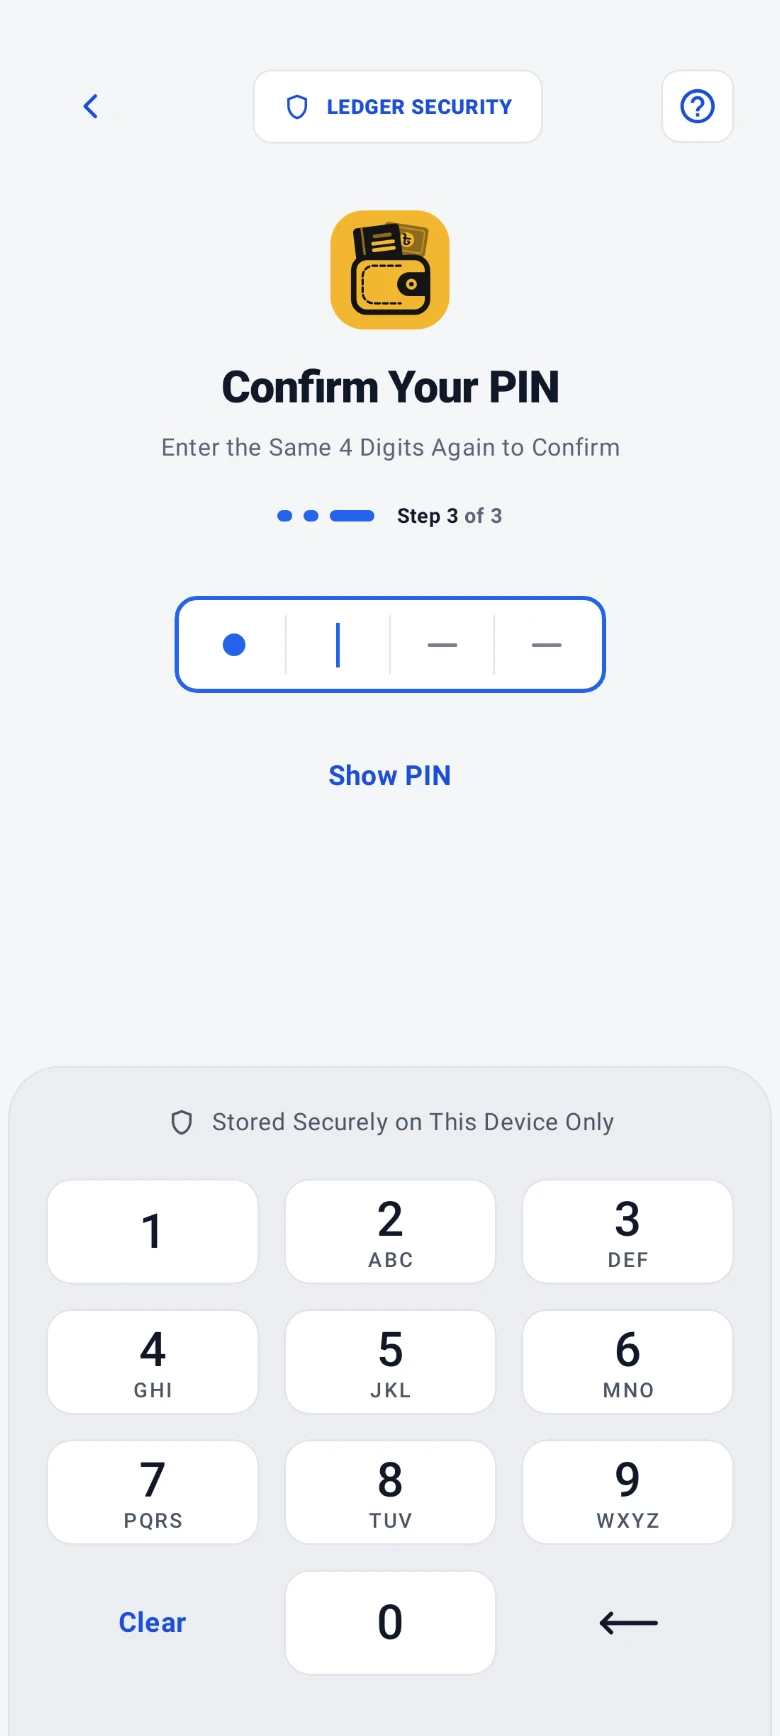
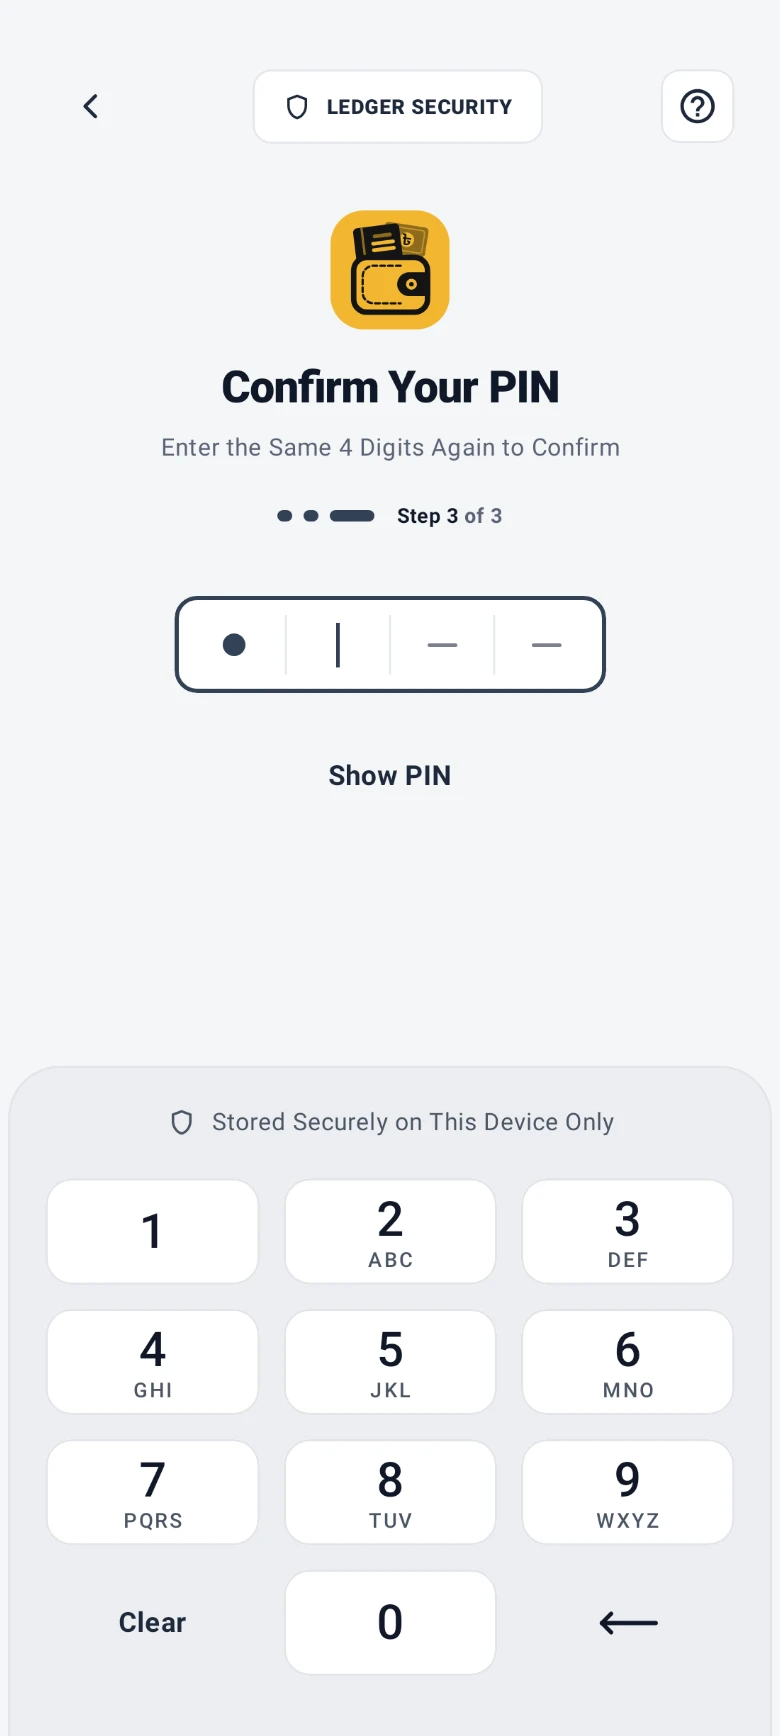
Website 2.26.2: the light pictures in Graphite
- All 22 light pictures, the first-launch steps among them, show
  Graphite (the app's Slate) rather than Rainbow, the owner's choice;
  rendered again from app 2.3.1. The dark ones and the share picture
  came out the same.
- gallery-changes.js names the gallery's light Sky look for the app's
  Slate (LightSlate, "light-slate"); towebp.js takes it for every
  light picture.
- 2.26.1's commit filled in the changelog.

diff --git a/_tools/gallery-changes.js b/_tools/gallery-changes.js
@@ -29,10 +29,12 @@ edit('GalleryTest.kt', [
   private val bnNotes: Boolean get() = webScene && sceneName.methodName.let { it.contains("Bangla") || it == "bangla" }
   private fun w(en: String, bn: String) = if (bnNotes) bn else en
 `],
-  // Website render only (site 2.25.29): a fifth look, Rainbow on the light theme, which the light
-  // pictures show -- the gallery draws only Yellow and Sky.
+  // Website render only (site 2.25.29): a fifth look, Rainbow on the light theme -- the gallery
+  // draws only Yellow and Sky. And since site 2.26.2 the light Sky look is named for what the app
+  // has called it since 2.3.0, Slate (Graphite on its pages; SKY in storage): LightSlate,
+  // "light-slate", which the light pictures show (owner, 2026-11-26).
   ['    LightSky(false, ThemeColorMode.SKY, "light-sky")\n',
-   '    LightSky(false, ThemeColorMode.SKY, "light-sky"),\n    LightRainbow(false, ThemeColorMode.RAINBOW, "light-rainbow")\n'],
+   '    LightSlate(false, ThemeColorMode.SKY, "light-slate"),\n    LightRainbow(false, ThemeColorMode.RAINBOW, "light-rainbow")\n'],
   ['repository.insertAccount(BankAccount(accountName = "CITY BANK A/C", accountType = "Savings", accountNumberSuffix = "9032", balance = 68250.0,',
    'val city = repository.insertAccountReturningId(BankAccount(accountName = "CITY BANK A/C", accountType = "Savings", accountNumberSuffix = "9032", balance = 0.0,'],
   ['val cash = repository.insertAccountReturningId(BankAccount(accountName = "Cash in Hand",',

diff --git a/_tools/towebp.js b/_tools/towebp.js
@@ -19,7 +19,10 @@ const fades = new Set(['txn', 'accounts', 'flow']);
 // The app's own screens show Rainbow on the light theme and Yellow after dark (site 2.25.29). The
 // first-launch steps the same since site 2.26.0: from app 2.3.0 a new install on the light theme
 // opens in Rainbow (2.25.29 kept them Yellow, as a new install then started).
-const look = t => t === 'light' ? 'light-rainbow' : 'dark-yellow';
+// Since site 2.26.2 every light picture, the first-launch steps among them, shows Graphite (the
+// app's Slate, stored as SKY; the gallery's light-sky look, renamed light-slate by
+// gallery-changes.js) -- the owner's choice (2026-11-26). Dark stays Yellow.
+const look = t => t === 'light' ? 'light-slate' : 'dark-yellow';
 const jobs = [];
 for (const [k, s] of Object.entries(scenes)) for (const t of ['light', 'dark']) for (const bn of [false, true])
   jobs.push([`app-${k}-${t}${bn ? '-bn' : ''}.webp`, `${s}${bn ? '-bn' : ''}-${look(t)}.png`, `${s}-${look(t)}.png`, fades.has(k)]);

diff --git a/features.html b/features.html
@@ -324,7 +324,7 @@
       <p data-s="footerNote">Built for keeping one household’s books. No trackers on this page.</p>
     </div>
     <p class="foot-links">
-      <span class="foot-ver" data-site-version>Website v2.26.1</span>
+      <span class="foot-ver" data-site-version>Website v2.26.2</span>
       <a href="privacy.html" data-s="navPrivacy">Privacy</a>
       <a href="install.html" data-s="navInstall">How to install</a>
     </p>

diff --git a/index.html b/index.html
@@ -355,7 +355,7 @@
       <p data-s="footerNote">Built for keeping one household’s books. No trackers on this page.</p>
     </div>
     <p class="foot-links">
-      <span class="foot-ver" data-site-version>Website v2.26.1</span>
+      <span class="foot-ver" data-site-version>Website v2.26.2</span>
       <a href="privacy.html" data-s="navPrivacy">Privacy</a>
       <a href="install.html" data-s="navInstall">How to install</a>
     </p>

diff --git a/install.html b/install.html
@@ -234,7 +234,7 @@
       <p data-s="footerNote">Built for keeping one household’s books. No trackers on this page.</p>
     </div>
     <p class="foot-links">
-      <span class="foot-ver" data-site-version>Website v2.26.1</span>
+      <span class="foot-ver" data-site-version>Website v2.26.2</span>
       <a href="privacy.html" data-s="navPrivacy">Privacy</a>
       <a href="install.html" data-s="navInstall">How to install</a>
     </p>

diff --git a/privacy.html b/privacy.html
@@ -219,7 +219,7 @@
       <p data-s="footerNote">Built for keeping one household’s books. No trackers on this page.</p>
     </div>
     <p class="foot-links">
-      <span class="foot-ver" data-site-version>Website v2.26.1</span>
+      <span class="foot-ver" data-site-version>Website v2.26.2</span>
       <a href="privacy.html" data-s="navPrivacy">Privacy</a>
       <a href="install.html" data-s="navInstall">How to install</a>
     </p>

diff --git a/assets/site.js b/assets/site.js
@@ -30,7 +30,7 @@ document.documentElement.classList.add('js');
  * number for a fix to what is there, the middle one for a new page, section or feature.
  * The app's version is a separate thing and comes from the releases API.
  */
-const SITE_VERSION = '2.26.1';
+const SITE_VERSION = '2.26.2';
 
 const LANGS = { en: 0, bn: 1 };
 // The language actually on the page. Where storage is blocked the saved choice cannot

diff --git a/CHANGELOG.md b/CHANGELOG.md
@@ -12,7 +12,8 @@ Counted back over the history when the number was introduced; repository houseke
 
 | Version | Date | Commit | What |
 |---|---|---|---|
-| 2.26.1 | 2026-11-26 | — | Follows app 2.3.1. Features: the light theme's dark accent by the name the app now gives it, graphite (it said "slate"); a backup password is at least 8 characters with a letter (it said "not only numbers", which let a date or a phone number with a slash or a dash through, as 2.3.0 did). Pictures rendered again from app 2.3.1: the light pairs of Home, Accounts, Investments, Analytics and Money Flow, their summary cards tinted violet under Rainbow and Home's two head cards on a soft shadow, and the dark pairs of Analytics and Money Flow with their rules stopped short of the card's edges; the other 30 and the share picture came out the same. And 2.26.0's commit in the changelog |
+| 2.26.2 | 2026-11-26 | — | The light pictures in Graphite rather than Rainbow, the owner's choice: all 22, the first-launch steps among them, rendered again from app 2.3.1. gallery-changes.js names the gallery's light Sky look for the app's Slate (LightSlate, "light-slate") and towebp.js takes it for every light picture; the dark ones and the share picture came out the same. And 2.26.1's commit in the changelog |
+| 2.26.1 | 2026-11-26 | a055048 | Follows app 2.3.1. Features: the light theme's dark accent by the name the app now gives it, graphite (it said "slate"); a backup password is at least 8 characters with a letter (it said "not only numbers", which let a date or a phone number with a slash or a dash through, as 2.3.0 did). Pictures rendered again from app 2.3.1: the light pairs of Home, Accounts, Investments, Analytics and Money Flow, their summary cards tinted violet under Rainbow and Home's two head cards on a soft shadow, and the dark pairs of Analytics and Money Flow with their rules stopped short of the card's edges; the other 30 and the share picture came out the same. And 2.26.0's commit in the changelog |
 | 2.26.0 | 2026-11-25 | 1e7bdd5 | Follows app 2.3.0. Features: the accents by theme — light mode in slate or rainbow, dark mode in gold or rainbow (it said "gold, sky blue or rainbow"); a backup password is at least 8 characters, not only numbers, and the app says when the daily backup's saved one is weaker; a DPS's instalments can be paid after maturity and earn nothing; a DPS closed early earns on each instalment from its own due day (any DPS, not only a monthly one) and can be closed with the bank's own figures, with a word when the profit is far above the reckoning; five wrong PINs lock for 30 seconds, each lockout after twice as long, up to four hours. Install: the app checks its own updates against the fingerprint and the signing key. The new-phone question: install the newest version there, since a backup from 2.3.0 does not open in an older one, and a password-protected one made on Android 8 or newer needs Android 8 or newer. Pictures rendered again from app 2.3.0: the light first-launch steps in Rainbow, as a new install on the light theme now opens (towebp.js takes them from -light-rainbow), Home's light pair with its calendar mark and Backups' with Rainbow's deeper green; the other 34 and the share picture came out the same. And 2.25.29's commit in the changelog |
 | 2.25.29 | 2026-11-24 | 3fa5fa4 | The app's pictures retaken from app 2.2.9, the light ones in its new Rainbow accent (the owner's choice) and the dark ones in Yellow, which Rainbow is after dark; the first-launch steps stay Yellow, as a new install starts. gallery-changes.js adds the Rainbow look the gallery lacks and drops its Money Flow 12dp change, which 2.2.7 released. Features names the third accent: "gold, sky blue or rainbow" / "সোনালি, আকাশি বা রংধনু". And 2.25.28's commit in the changelog |
 | 2.25.28 | 2026-11-20 | 6d786c8 | Corners on a scale, the owner's choice from a comparison: cards 20 at every width (a phone made them and the big sections 22), inner panels 16 through a new --radius-panel (the privacy boxes, the step pictures, the done banner and the download note were 14 and 18; the panels at 16 take the token too). Measured on every page at both widths. The sitemap's dates to 2026-11-20, which 2.25.27 missed. And 2.25.27's commit in the changelog |

diff --git a/README.md b/README.md
@@ -55,7 +55,7 @@ read — the ink is a step deeper for exactly that reason. The app hit this same
 
 ## The website's version
 
-Every footer says "Website v2.26.1". `CHANGELOG.md` lists every version and what it was. The number lives once, as SITE_VERSION at the top of
+Every footer says "Website v2.26.2". `CHANGELOG.md` lists every version and what it was. The number lives once, as SITE_VERSION at the top of
 `assets/site.js`, and is raised on every publish: the last part for a fix to what is
 there, the middle part for a new page, section or feature. It is the site's own version and
 has nothing to do with the app's.
